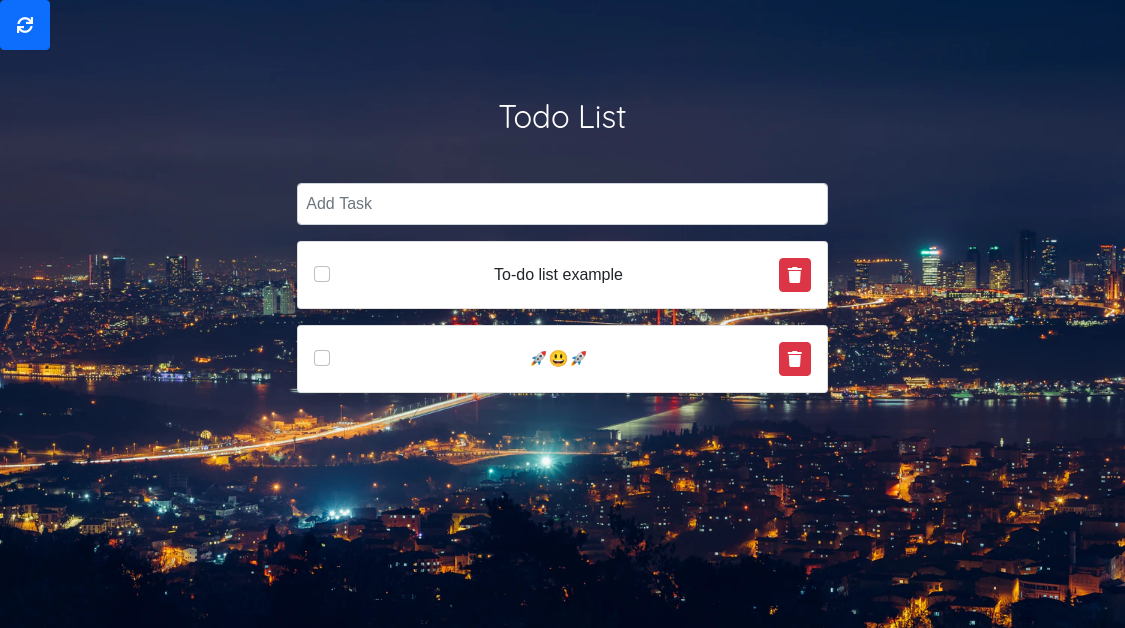
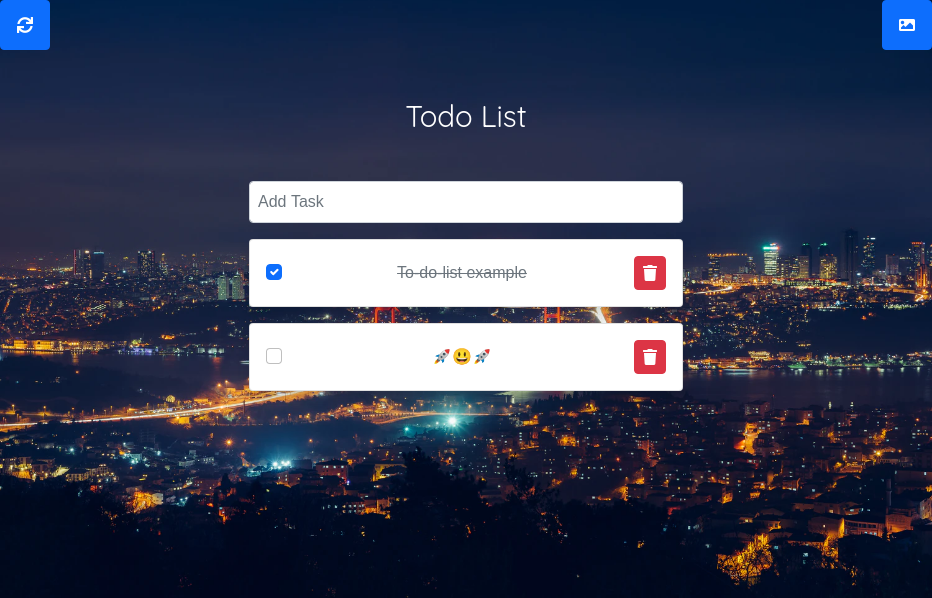
setting local image file as background

diff --git a/script.js b/script.js
@@ -31,6 +31,18 @@ new Vue({
       document.body.style.backgroundImage = "url(" + wallLink + ")"
       localStorage.setItem('wall', JSON.stringify(wallLink))
     },
+    selectImage(e) {
+      var files = e.target.files || e.dataTransfer.files;
+      this.createImage(files[0]);
+    },
+    createImage(file) {
+      var reader = new FileReader();
+      reader.onload = (e) => {
+        document.body.style.backgroundImage = "url(" + e.target.result + ")"
+        localStorage.setItem('wall', JSON.stringify(e.target.result))
+      };
+      reader.readAsDataURL(file);
+    },
     addItem() {
       if (this.new_todo) {
         this.todoList.push({

diff --git a/index.html b/index.html
@@ -12,7 +12,11 @@
 </head>
 <body>
 	<div id="app">
-		<i class="btn btn-primary p-3 fa fa-sync" @click="changeWall"></i>
+		<div class="d-flex justify-content-between">
+			<i class="btn btn-primary p-3 fa fa-sync" @click="changeWall"></i>
+			<i class="btn btn-primary p-3 fa fa-image" onclick="selectImage.click()"></i>
+			<input id="selectImage" type="file" class="d-none" v-on:change="selectImage">
+		</div>
 		<div>
 			<h2 class="mt-5 mb-5 text-white text-center">Todo List</h2>
 		</div>
@@ -36,7 +40,6 @@
 			</div>
 		</div>
 	</div>
-</div>
-<script src="script.js"></script>
+	<script src="script.js"></script>
 </body>
 </html>
